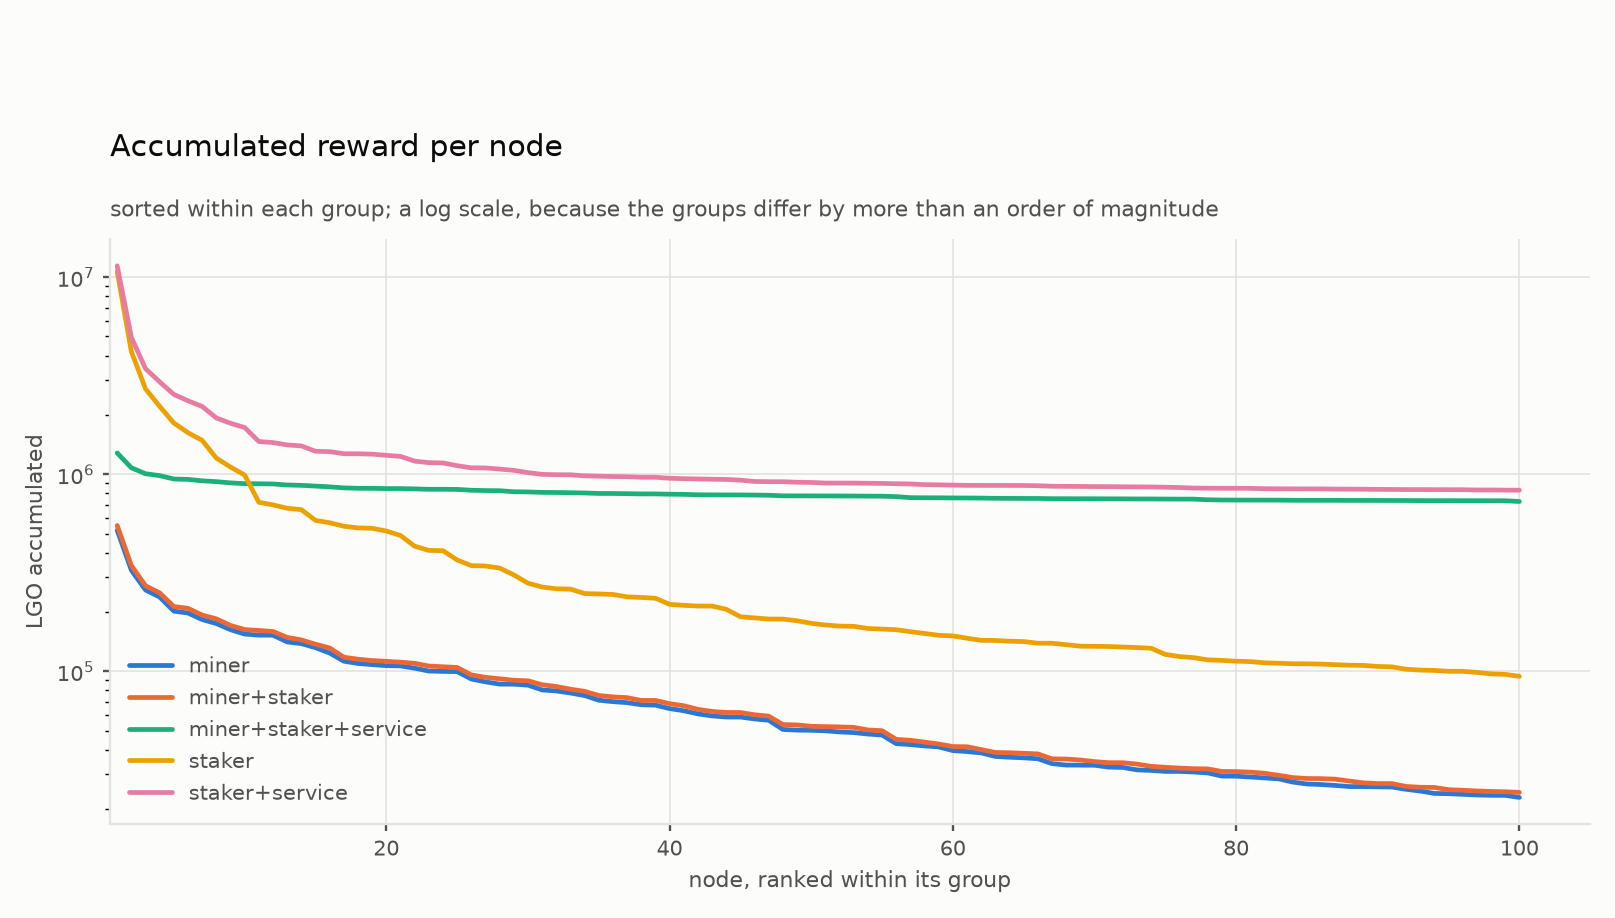
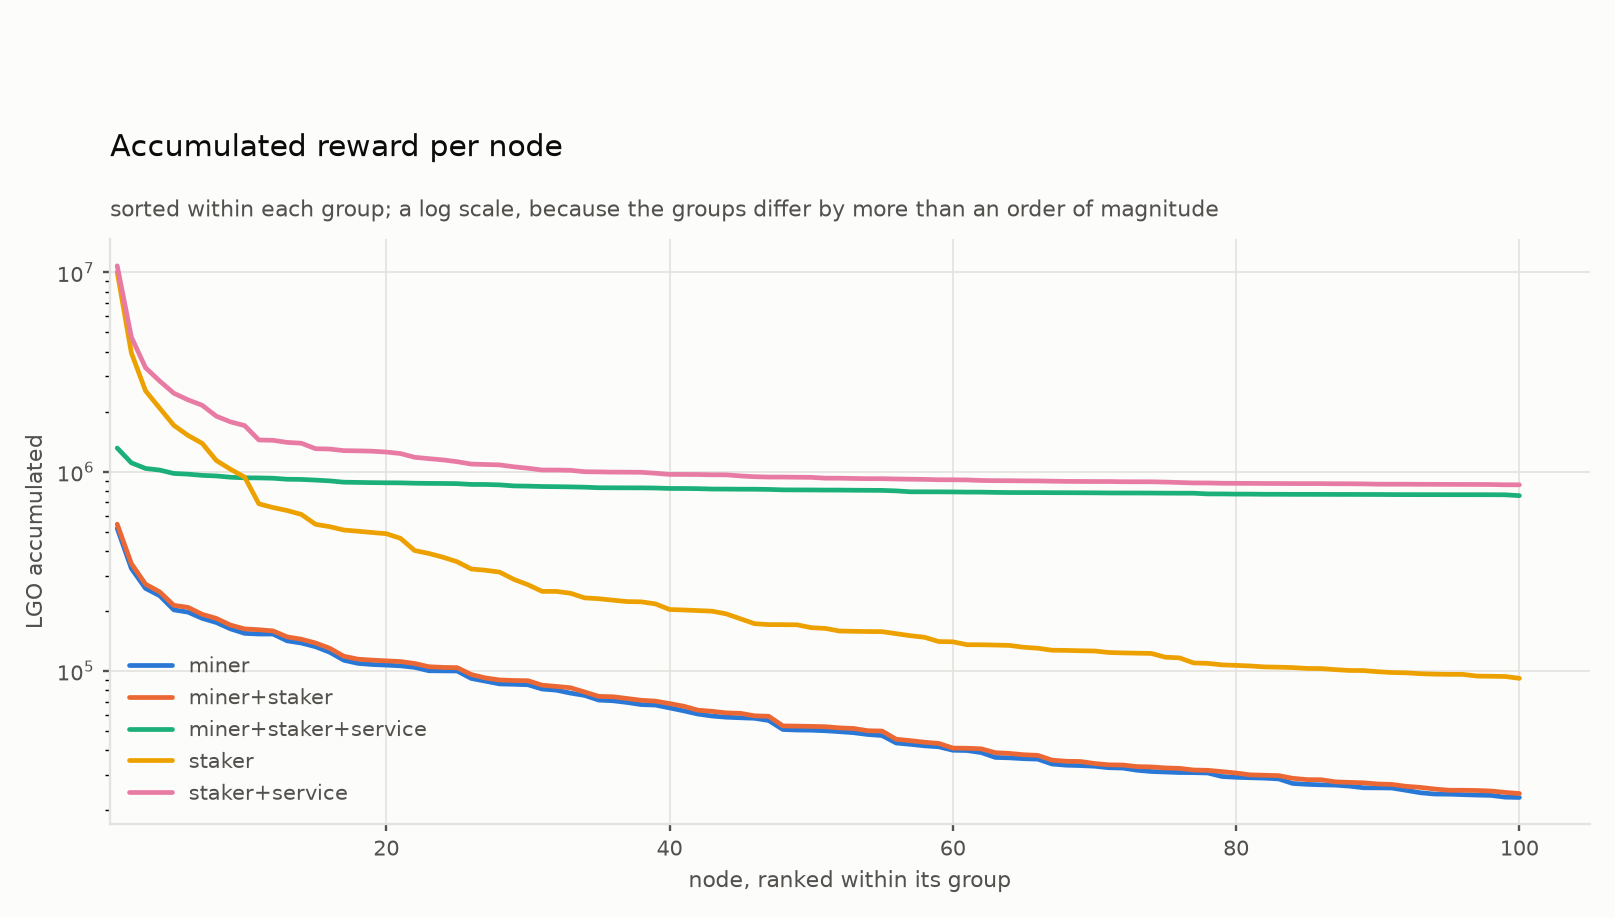
EmPoWering: the emission split is settled by the PR, and the full horizon switches itself off
Three things.

The contested split is settled, and by the EmPoWering PR itself in a sentence written for the
purpose: "The split between the Blend service and the leader is itself unchanged: they
continue to divide the block reward 60/40, on whatever the block reward turns out to be." The
PR does not touch block-rewards.md at all, so the 3.33% validator APY it claims is inherited
from master and is the stale side of the contradiction. The report's figures stand, and the
alternative is kept only as the measure of what one contested sentence was worth: 5.68x
against 0.99x.

A modelling gap the short runs hid. Proof-of-work income compounded into a node's stake but
leader and service income did not, so a node's lottery weight never grew with what it earned.
Over 120 epochs that is a small understatement; over a full horizon it is the dominant
dynamic, because minted rewards are precisely what drive total stake toward the target the
emission control function steers on. Fixed, and the report's tables are refreshed against it.

And then the full horizon, which a 120-epoch run structurally cannot show: THE MECHANISM
SWITCHES ITSELF OFF. Rewards compound into stake, stake reaches three billion at about year
twenty, and the control function does what it was built to do and stops minting. By year
twenty-five the block reward has fallen from 95.13 LGO to 0.023 and every stream it funds has
fallen with it -- service provision from 6,185 LGO an epoch to one. This is the
[…]

diff --git a/tools/simulators/empowering/src/empowering_sim/strategies.py b/tools/simulators/empowering/src/empowering_sim/strategies.py
@@ -102,7 +102,14 @@ class Population:
         return np.isin(self.strategy, [int(s) for s in strategies])
 
     def aged_stake(self, epoch: int) -> np.ndarray:
-        """Holdings that have aged into the lottery. Any value counts; there is no minimum."""
+        """Holdings that have aged into the lottery. Any value counts; there is no minimum.
+
+        Aging is tracked per NODE rather than per note, so an increment credited to a node
+        that is already aged counts immediately rather than two epochs later. That is a
+        two-epoch optimism on income which is itself a small share of a holding, and it is
+        immaterial over the horizons this is run at -- but it is an approximation, not the
+        protocol.
+        """
         eligible = (self.stake_aged_at >= 0) & (self.stake_aged_at <= epoch)
         return np.where(eligible & self.mask(*STAKING), self.stake, 0)
 
@@ -246,7 +253,13 @@ def run(cfg: Config, scfg: StrategyConfig) -> tuple[Population, list[EpochRecord
             led = rng.multinomial(blocks, aged / aged.sum())
             pop.blocks_led += led
             per_block = leader_pool / blocks
-            pop.reward_leader += np.round(led * per_block * cfg.base_units_per_lgo).astype(np.int64)
+            paid_lead = np.round(led * per_block * cfg.base_units_per_lgo).astype(np.int64)
+            pop.reward_leader += paid_lead
+            # Leader income is tokens the node now holds, so it compounds into its stake and
+            # thence into its future lottery weight. Omitting this understates the long run
+            # badly: minted rewards are what drive total stake toward the 30% target, and
+            # reaching that target is what switches the emission off.
+            pop.stake[pop.mask(*STAKING)] += paid_lead[pop.mask(*STAKING)]
 
         # ---- services: declare when bonded, then a flat share of the Blend pool
         wants = pop.mask(*SERVING)
@@ -256,7 +269,9 @@ def run(cfg: Config, scfg: StrategyConfig) -> tuple[Population, list[EpochRecord
         n_prov = int(providing.sum())
         per_prov = services.reward_per_provider(blend_pool, n_prov)
         if per_prov > 0:
-            pop.reward_service[providing] += round(per_prov * cfg.base_units_per_lgo)
+            paid_svc = round(per_prov * cfg.base_units_per_lgo)
+            pop.reward_service[providing] += paid_svc
+            pop.stake[providing & pop.mask(*STAKING)] += paid_svc
 
         out.append(EpochRecord(
             epoch=e, years=e / cfg.epochs_per_year,

diff --git a/reports/EmPoWering/strategies/strategies-report.md b/reports/EmPoWering/strategies/strategies-report.md
@@ -32,19 +32,19 @@ python3 -m empowering_sim.plots_strategies --out figures/strategies --epochs 120
 
 | strategy | median node, LGO | against a plain stakeholder |
 | --- | --- | --- |
-| miner | 50,055 | 0.29× |
-| miner and staker | 52,519 | 0.30× |
-| stakeholder | 173,573 | 1.00× |
-| miner, staker and service provider | 776,483 | **4.47×** |
-| stakeholder and service provider | 905,542 | **5.22×** |
+| miner | 50,151 | 0.31× |
+| miner and staker | 52,478 | 0.32× |
+| stakeholder | 163,851 | 1.00× |
+| miner, staker and service provider | 807,612 | **4.93×** |
+| stakeholder and service provider | 930,422 | **5.68×** |
 
 Three things fall out of that table, and only the first is obvious.
 
-**Service provision dominates, by a factor of five.** Adding a service declaration to a plain
-stake multiplies a node's income more than fivefold. Nothing else on the chain comes close.
+**Service provision dominates, by a factor of five and a half.** Adding a service declaration
+to a plain stake multiplies a node's income more than fivefold. Nothing else on the chain comes close.
 
-**Staking on top of mining is worth almost nothing — three percent.** A miner who stakes
-everything it mines earns 52,519 against a pure miner's 50,055. The reason is arithmetic: what
+**Staking on top of mining is worth almost nothing — five percent.** A miner who stakes
+everything it mines earns 52,478 against a pure miner's 50,151. The reason is arithmetic: what
 a miner accumulates over two and a half years is small against 5% of supply, so its share of
 the lottery is correspondingly small. The two curves are visually indistinguishable in §2.
 
@@ -73,17 +73,17 @@ The rank curves say more than the medians do.
 
 | strategy | p10 | median | p90 | max ÷ min |
 | --- | --- | --- | --- | --- |
-| miner | 25,933 | 50,055 | 152,848 | 22.7× |
-| miner and staker | 26,954 | 52,519 | 161,333 | 22.6× |
-| stakeholder | 105,845 | 173,573 | 747,785 | **113.3×** |
-| miner, staker and service | 736,251 | 776,483 | 894,908 | **1.8×** |
-| stakeholder and service | 838,027 | 905,542 | 1,491,706 | 13.8× |
+| miner | 25,831 | 50,151 | 153,028 | 22.4× |
+| miner and staker | 27,003 | 52,478 | 160,851 | 22.5× |
+| stakeholder | 98,805 | 163,851 | 713,482 | **109.5×** |
+| miner, staker and service | 766,820 | 807,612 | 928,856 | **1.7×** |
+| stakeholder and service | 863,938 | 930,422 | 1,466,001 | 12.6× |
 
 **The two service curves are nearly flat and the stakeholder curve is not.** A plain
-stakeholder's reward spans a hundred-and-thirteenfold range, because leadership income is
+stakeholder's reward spans a hundred-and-tenfold range, because leadership income is
 strictly proportional to stake and the stake draw is Pareto — the top tenth of that group
-holds 57.7% of it. The miner-staker-service curve spans **1.8×** across a hundred nodes whose
-hashrates differ by 22.6×.
+holds 57.7% of it. The miner-staker-service curve spans **1.7×** across a hundred nodes whose
+hashrates differ by 22.4×.
 
 So **service provision is the only stream on the chain that compresses inequality**, and it
 compresses it almost completely. Every other stream — mining, leadership — pays in proportion
@@ -176,19 +176,87 @@ epoch 2 the mechanism is in the regime the rest of this report describes.
 
 ---
 
+## 6b. The full horizon — the mechanism switches itself off
+
+Everything above is a 120-epoch run, which is the bootstrap era. Run to 2,085 epochs — the
+whole life of the endowment, about 43 years — and a dynamic appears that a short run
+structurally cannot show.
+
+Minted rewards compound into their holders' stake. That stake is the very KPI the emission
+control function steers on. So the rewards drive total stake toward its 3×10⁹ target, and on
+reaching it the control function does what it was built to do: it stops minting.
+
+| era | emission factor | block reward | service per provider | proof-of-work pool |
+| --- | --- | --- | --- | --- |
+| bootstrap, yr 0–10 | 1.00 | 95.13 LGO | 6,185 LGO/epoch | 18.1M LGO |
+| transition, yr 10–25 | 0.64 | 60.44 LGO | 3,920 LGO/epoch | 1.1M LGO |
+| equilibrium, yr 25–43 | **0.00** | **0.023 LGO** | **1 LGO/epoch** | 25.6k LGO |
+
+Stake reaches 99% of target at about **year 20**. By year 25 the block reward has fallen by
+more than three orders of magnitude and every stream it funds has fallen with it. This is the
+specification's own "Equilibrium Phase" — *"supply stabilises with issuance matching burned
+fees"* — and it is designed behaviour, not a failure. But it means **every reward figure in
+this report is a bootstrap-era figure**, and the mechanism's generosity is a phase rather
+than a property.
+
+## 6c. Is the ordering robust?
+
+Three sweeps. The answer is that only one thing overturns it.
+
+**Horizon — the lead grows rather than decays.** Even though the streams collapse after year
+20, accumulated reward is dominated by the bootstrap era, so a service provider's advantage is
+locked in early and never given back.
+
+| horizon | stakeholder and service | miner, staker and service |
+| --- | --- | --- |
+| 2.5 years | 5.68× | 4.93× |
+| 10 years | 7.04× | 6.23× |
+| 20 years | 8.33× | 7.46× |
+| 43 years | 8.36× | 7.49× |
+
+**Group size — the only thing that inverts the answer.** Below the 32-provider floor the
+service stream does not exist, and the two service strategies collapse onto the two without.
+
+| nodes per group | providers | stakeholder and service |
+| --- | --- | --- |
+| 10 | 20 | **1.00× — no service reward at all** |
+| 16 | 32 | 5.24× |
+| 20 | 40 | 4.87× |
+| 100 | 200 | 6.71× |
+
+**Stake concentration — it changes the size of the lead, not its direction.** The more
+concentrated the stake draw, the more valuable a flat per-provider payment is relative to the
+median stakeholder's proportional income.
+
+| Pareto tail index | stakeholder and service |
+| --- | --- |
+| 0.8 (very concentrated) | 18.41× |
+| 1.16 (default) | 6.71× |
+| 3.0 (fairly even) | 3.52× |
+
+So the ordering holds across a seventeen-fold range of horizon and a range of concentration
+that moves the lead between 3.5× and 18×. **The 32-provider floor is the only switch that
+turns the result over**, and it does so by removing the winning strategy from the chain rather
+than by beating it.
+
+---
+
 ## 7. What would change these conclusions
 
 Ranked by how much.
 
-**Who receives the emission — and it does not adjust the answer, it decides whether the
-answer exists.** `block-rewards.md` calibrates `I_max` so that "the APY for validation is
-~3.33%", which requires validators to receive the whole emission;
-`overview-cryptoeconomics.md` gives leaders 0.4 of the block reward with Blend taking 0.6.
-Both cannot hold. This report takes the stated 0.4.
+**Who receives the emission — SETTLED by the EmPoWering PR itself.** `block-rewards.md`
+calibrates `I_max` so that "the APY for validation is ~3.33%", which requires validators to
+receive the whole emission; `overview-cryptoeconomics.md` gives leaders 0.4 with Blend taking
+0.6. Both cannot hold — but the EmPoWering PR settles it in a sentence written for exactly
+this purpose: *"The split between the Blend service and the leader is itself unchanged: they
+continue to divide the block reward 60/40, on whatever the block reward turns out to be."*
+The PR does not touch `block-rewards.md` at all, so its 3.33% claim is inherited from master
+and is the stale one. **0.4 is operative and this report's figures stand.**
 
-The two are **complements of one split**, so the alternative reading does not merely raise
-leadership income — it sets the Blend share to zero, and service rewards *are* Blend rewards.
-Run both ways:
+The alternative is recorded because of how much it would have moved. The two shares are
+**complements of one split**, so giving leaders the whole emission sets the Blend share to
+zero — and service rewards *are* Blend rewards. Run both ways:
 
 | strategy | leaders take 0.4 | leaders take all |
 | --- | --- | --- |
@@ -198,10 +266,9 @@ Run both ways:
 | miner, staker and service | 4.47× | 0.13× |
 | stakeholder and service | **5.22×** | **0.99×** |
 
-Under the other reading the service stream is unfunded, the dominant strategy of this report
-pays nothing at all, and **plain staking wins**. Everything in §1 through §5 is conditional on
-the 0.4 reading being the operative one. This is the single most consequential open item in
-the study, and it is a question for the specifications rather than for the simulator.
+Under that reading the service stream would be unfunded, the dominant strategy of this report
+would pay nothing, and plain staking would win. It is not the operative reading — but the gap
+between 5.68× and 0.99× is the measure of how much a single contested sentence was worth.
 
 **Settled: a locked service bond does carry leadership weight.** Not stated in the
 specification, and decided rather than read. A service provider therefore adds service income
